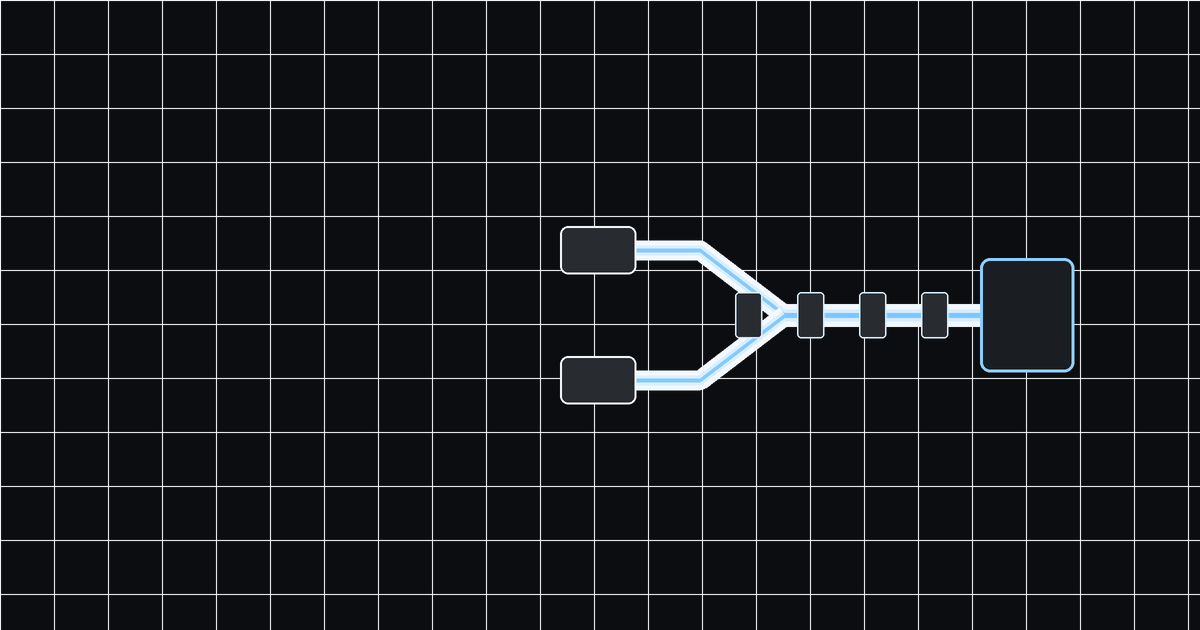
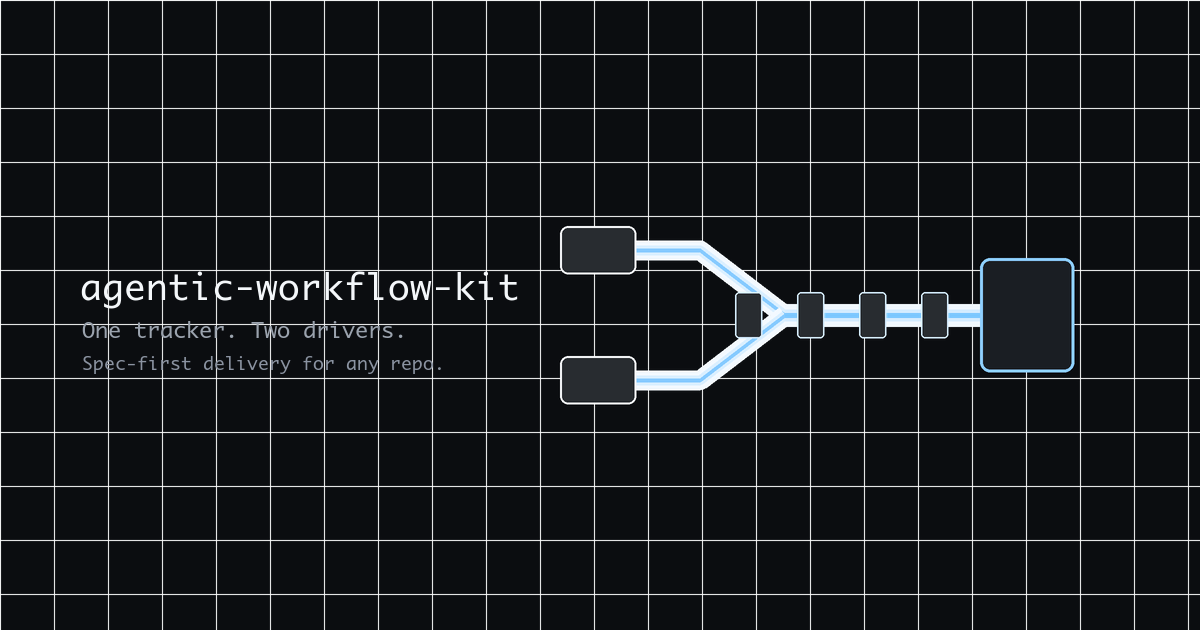
fix: og social card (bake title into the empty zone) (#5)
fix: bake title + tagline into og social card

The og card's left zone was empty (a static social/link-preview image can't
overlay text at render time), so it showed dead space. Bake the
agentic-workflow-kit title, tagline, and value line into that zone over the
rail motif. Upload via repo Settings -> Social preview.

Changed region(s): [[0.0617, 0.4222, 0.4317, 0.4825], [0.0617, 0.573, 0.37, 0.6032], [0.0617, 0.5127, 0.3392, 0.5429]]

diff --git a/docs/brand.md b/docs/brand.md
@@ -79,11 +79,11 @@ and CLI snippets.
 
 ### Social card
 
-[`assets/branding/rail-contract/og.png`](../assets/branding/rail-contract/og.png) (1200x630, no baked
-text). Overlay headline + subhead in HTML/templating, not in the raster:
-
-- Headline `Spec-first delivery, one rail` — Space Grotesk, 56px, 700, line-height 1.02, `#F4F7FA`, at x=96 y=178, max-width 520px.
-- Subhead `A tracker-driven contract for Claude Code, Codex, and autonomous TypeScript orchestration.` — Inter, 25px, 500, line-height 1.3, `#A9B2BD`, at x=96 y=322, max-width 500px.
+[`assets/branding/rail-contract/og.png`](../assets/branding/rail-contract/og.png) (1200x630) — the
+GitHub / link-unfurl social preview. The title `agentic-workflow-kit`, the tagline `One tracker. Two
+drivers.`, and `Spec-first delivery for any repo.` are baked into the left zone over the rail motif (a
+static social card can't overlay text at render time). Upload it via repo Settings → General → Social
+preview.
 
 ## Caveats
 